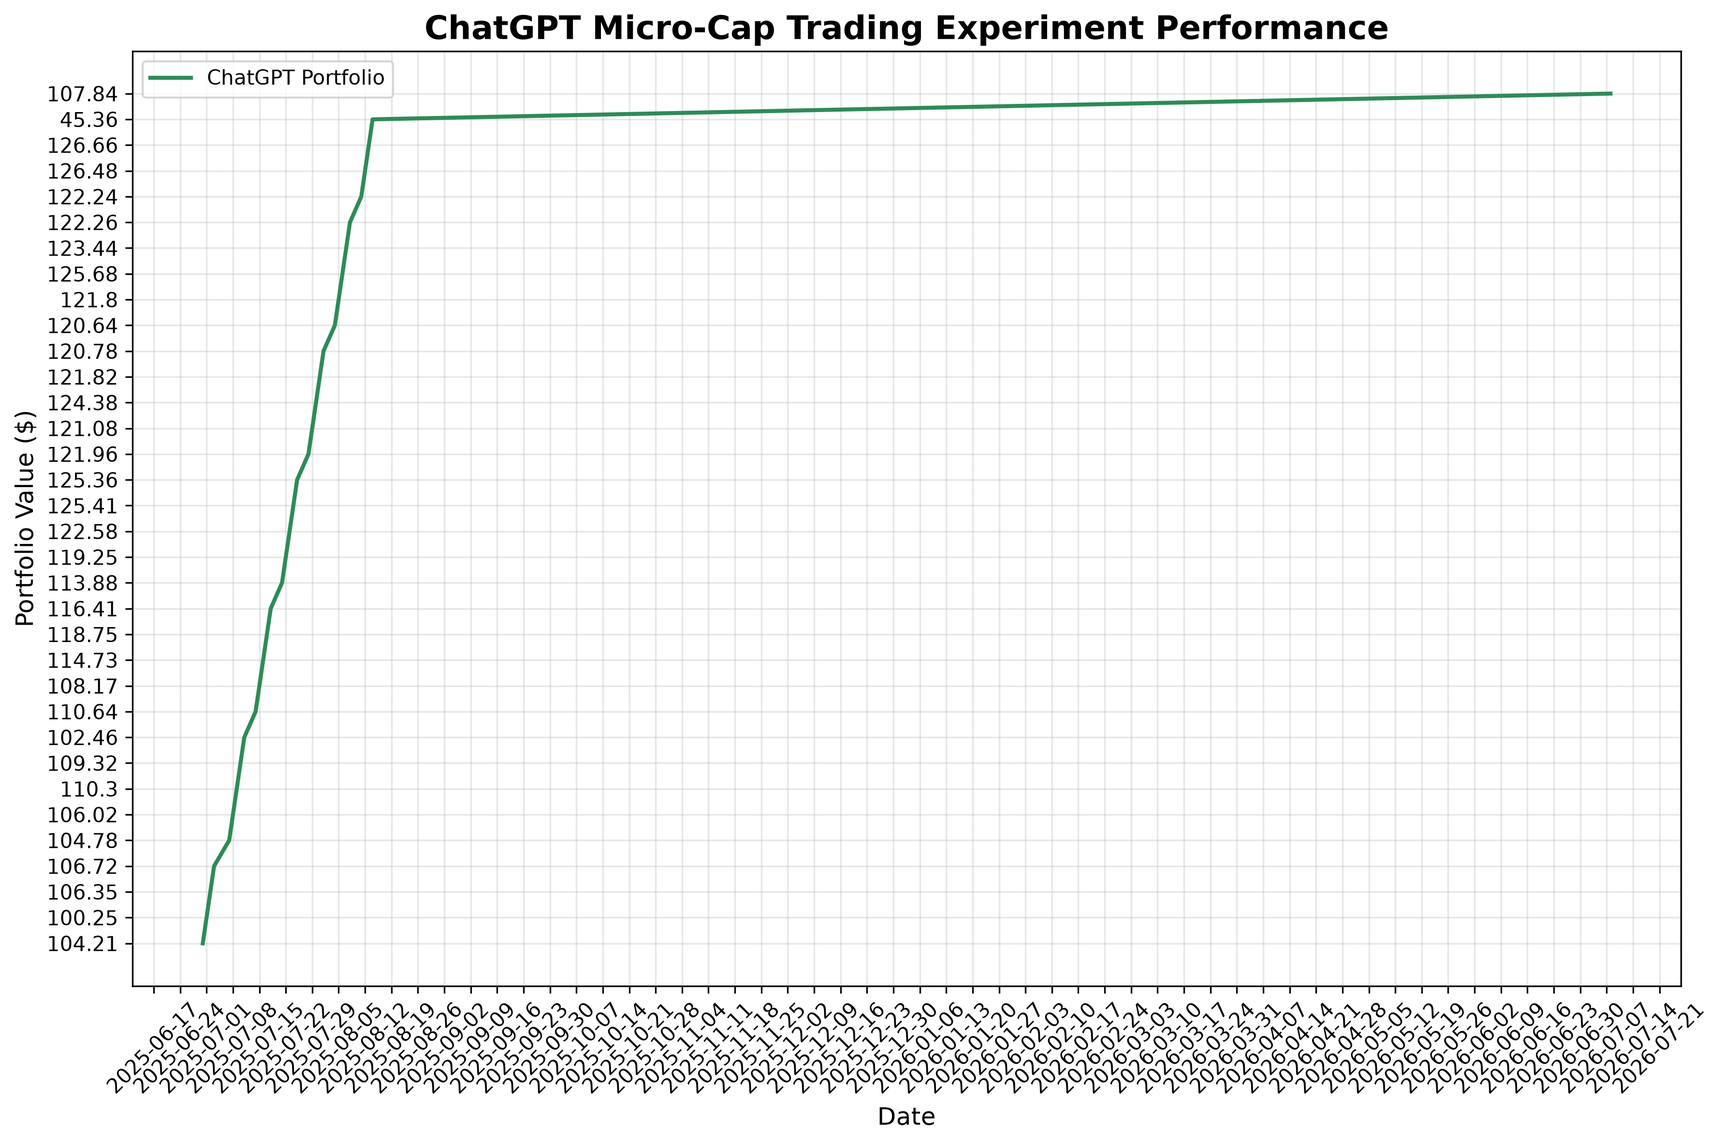
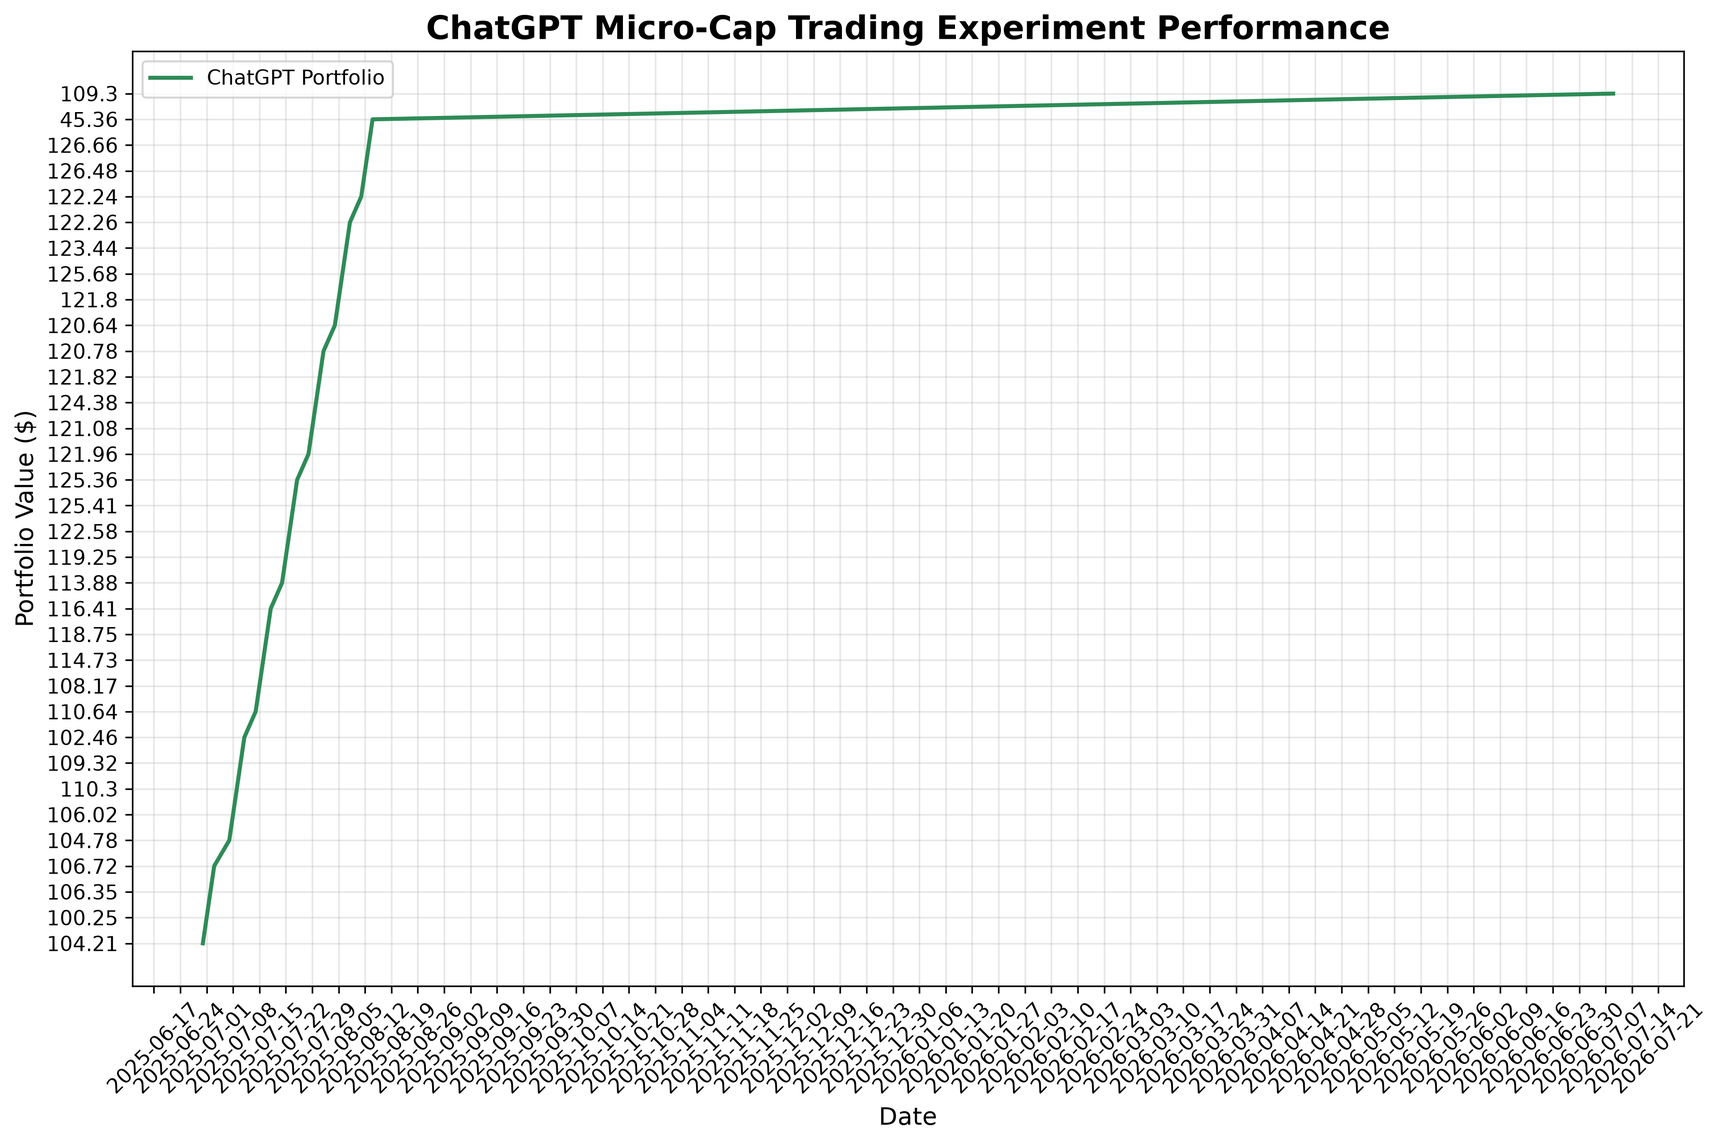
deploy: e15cad030d70fb3fbb51f9df6e22fa70c2f175c0

diff --git a/index.html b/index.html
@@ -105,7 +105,7 @@
                 <div class="stat-label">Total Trades</div>
             </div>
             <div class="stat-card">
-                <div class="stat-value" id="last-updated">2026-07-08</div>
+                <div class="stat-value" id="last-updated">2026-07-09</div>
                 <div class="stat-label">Last Updated</div>
             </div>
         </div>
@@ -160,8 +160,8 @@
     
     <script>
         // Portfolio data
-        const portfolioData = JSON.parse("[{&quot;Date&quot;: &quot;2025-08-11&quot;, &quot;Ticker&quot;: &quot;ABEO&quot;, &quot;Shares&quot;: 4.0, &quot;Buy Price&quot;: 5.77, &quot;Cost Basis&quot;: 23.08, &quot;Stop Loss&quot;: 4.9, &quot;Current Price&quot;: 6.28, &quot;Total Value&quot;: 25.12, &quot;PnL&quot;: 2.04, &quot;Action&quot;: &quot;HOLD&quot;, &quot;Cash Balance&quot;: NaN, &quot;Total Equity&quot;: NaN}, {&quot;Date&quot;: &quot;2025-08-11&quot;, &quot;Ticker&quot;: &quot;ACTU&quot;, &quot;Shares&quot;: 6.0, &quot;Buy Price&quot;: 5.75, &quot;Cost Basis&quot;: 34.5, &quot;Stop Loss&quot;: 4.89, &quot;Current Price&quot;: 8.01, &quot;Total Value&quot;: 48.06, &quot;PnL&quot;: 13.56, &quot;Action&quot;: &quot;HOLD&quot;, &quot;Cash Balance&quot;: NaN, &quot;Total Equity&quot;: NaN}, {&quot;Date&quot;: &quot;2025-08-11&quot;, &quot;Ticker&quot;: &quot;ESPR&quot;, &quot;Shares&quot;: 2.0, &quot;Buy Price&quot;: 1.91, &quot;Cost Basis&quot;: 3.82, &quot;Stop Loss&quot;: 1.6, &quot;Current Price&quot;: 1.85, &quot;Total Value&quot;: 3.7, &quot;PnL&quot;: -0.12, &quot;Action&quot;: &quot;HOLD&quot;, &quot;Cash Balance&quot;: NaN, &quot;Total Equity&quot;: NaN}, {&quot;Date&quot;: &quot;2025-08-11&quot;, &quot;Ticker&quot;: &quot;TOTAL&quot;, &quot;Shares&quot;: NaN, &quot;Buy Price&quot;: NaN, &quot;Cost Basis&quot;: NaN, &quot;Stop Loss&quot;: NaN, &quot;Current Price&quot;: NaN, &quot;Total Value&quot;: 76.88, &quot;PnL&quot;: 15.48, &quot;Action&quot;: NaN, &quot;Cash Balance&quot;: 45.36, &quot;Total Equity&quot;: &quot;122.24&quot;}, {&quot;Date&quot;: &quot;2025-08-12&quot;, &quot;Ticker&quot;: &quot;ABEO&quot;, &quot;Shares&quot;: 4.0, &quot;Buy Price&quot;: 5.77, &quot;Cost Basis&quot;: 23.08, &quot;Stop Loss&quot;: 4.9, &quot;Current Price&quot;: 6.38, &quot;Total Value&quot;: 25.52, &quot;PnL&quot;: 2.44, &quot;Action&quot;: &quot;HOLD&quot;, &quot;Cash Balance&quot;: NaN, &quot;Total Equity&quot;: NaN}, {&quot;Date&quot;: &quot;2025-08-12&quot;, &quot;Ticker&quot;: &quot;ACTU&quot;, &quot;Shares&quot;: 6.0, &quot;Buy Price&quot;: 5.75, &quot;Cost Basis&quot;: 34.5, &quot;Stop Loss&quot;: 4.89, &quot;Current Price&quot;: 8.67, &quot;Total Value&quot;: 52.02, &quot;PnL&quot;: 17.52, &quot;Action&quot;: &quot;HOLD&quot;, &quot;Cash Balance&quot;: NaN, &quot;Total Equity&quot;: NaN}, {&quot;Date&quot;: &quot;2025-08-12&quot;, &quot;Ticker&quot;: &quot;ESPR&quot;, &quot;Shares&quot;: 2.0, &quot;Buy Price&quot;: 1.91, &quot;Cost Basis&quot;: 3.82, &quot;Stop Loss&quot;: 1.6, &quot;Current Price&quot;: 1.79, &quot;Total Value&quot;: 3.58, &quot;PnL&quot;: -0.24, &quot;Action&quot;: &quot;HOLD&quot;, &quot;Cash Balance&quot;: NaN, &quot;Total Equity&quot;: NaN}, {&quot;Date&quot;: &quot;2025-08-12&quot;, &quot;Ticker&quot;: &quot;TOTAL&quot;, &quot;Shares&quot;: NaN, &quot;Buy Price&quot;: NaN, &quot;Cost Basis&quot;: NaN, &quot;Stop Loss&quot;: NaN, &quot;Current Price&quot;: NaN, &quot;Total Value&quot;: 81.12, &quot;PnL&quot;: 19.72, &quot;Action&quot;: NaN, &quot;Cash Balance&quot;: 45.36, &quot;Total Equity&quot;: &quot;126.48&quot;}, {&quot;Date&quot;: &quot;2025-08-13&quot;, &quot;Ticker&quot;: &quot;ABEO&quot;, &quot;Shares&quot;: 4.0, &quot;Buy Price&quot;: 5.77, &quot;Cost Basis&quot;: 23.08, &quot;Stop Loss&quot;: 4.9, &quot;Current Price&quot;: 6.56, &quot;Total Value&quot;: 26.24, &quot;PnL&quot;: 3.16, &quot;Action&quot;: &quot;HOLD&quot;, &quot;Cash Balance&quot;: NaN, &quot;Total Equity&quot;: NaN}, {&quot;Date&quot;: &quot;2025-08-13&quot;, &quot;Ticker&quot;: &quot;ACTU&quot;, &quot;Shares&quot;: 6.0, &quot;Buy Price&quot;: 5.75, &quot;Cost Basis&quot;: 34.5, &quot;Stop Loss&quot;: 4.89, &quot;Current Price&quot;: 8.53, &quot;Total Value&quot;: 51.18, &quot;PnL&quot;: 16.68, &quot;Action&quot;: &quot;HOLD&quot;, &quot;Cash Balance&quot;: NaN, &quot;Total Equity&quot;: NaN}, {&quot;Date&quot;: &quot;2025-08-13&quot;, &quot;Ticker&quot;: &quot;ESPR&quot;, &quot;Shares&quot;: 2.0, &quot;Buy Price&quot;: 1.91, &quot;Cost Basis&quot;: 3.82, &quot;Stop Loss&quot;: 1.6, &quot;Current Price&quot;: 1.94, &quot;Total Value&quot;: 3.88, &quot;PnL&quot;: 0.06, &quot;Action&quot;: &quot;HOLD&quot;, &quot;Cash Balance&quot;: NaN, &quot;Total Equity&quot;: NaN}, {&quot;Date&quot;: &quot;2025-08-13&quot;, &quot;Ticker&quot;: &quot;TOTAL&quot;, &quot;Shares&quot;: NaN, &quot;Buy Price&quot;: NaN, &quot;Cost Basis&quot;: NaN, &quot;Stop Loss&quot;: NaN, &quot;Current Price&quot;: NaN, &quot;Total Value&quot;: 81.3, &quot;PnL&quot;: 19.9, &quot;Action&quot;: NaN, &quot;Cash Balance&quot;: 45.36, &quot;Total Equity&quot;: &quot;126.66&quot;}, {&quot;Date&quot;: &quot;2025-08-14&quot;, &quot;Ticker&quot;: &quot;ABEO&quot;, &quot;Shares&quot;: 4.0, &quot;Buy Price&quot;: 5.77, &quot;Cost Basis&quot;: 23.08, &quot;Stop Loss&quot;: 4.9, &quot;Current Price&quot;: NaN, &quot;Total Value&quot;: NaN, &quot;PnL&quot;: NaN, &quot;Action&quot;: &quot;NO DATA&quot;, &quot;Cash Balance&quot;: NaN, &quot;Total Equity&quot;: NaN}, {&quot;Date&quot;: &quot;2025-08-14&quot;, &quot;Ticker&quot;: &quot;ACTU&quot;, &quot;Shares&quot;: 6.0, &quot;Buy Price&quot;: 5.75, &quot;Cost Basis&quot;: 34.5, &quot;Stop Loss&quot;: 4.89, &quot;Current Price&quot;: NaN, &quot;Total Value&quot;: NaN, &quot;PnL&quot;: NaN, &quot;Action&quot;: &quot;NO DATA&quot;, &quot;Cash Balance&quot;: NaN, &quot;Total Equity&quot;: NaN}, {&quot;Date&quot;: &quot;2025-08-14&quot;, &quot;Ticker&quot;: &quot;ESPR&quot;, &quot;Shares&quot;: 2.0, &quot;Buy Price&quot;: 1.91, &quot;Cost Basis&quot;: 3.82, &quot;Stop Loss&quot;: 1.6, &quot;Current Price&quot;: NaN, &quot;Total Value&quot;: NaN, &quot;PnL&quot;: NaN, &quot;Action&quot;: &quot;NO DATA&quot;, &quot;Cash Balance&quot;: NaN, &quot;Total Equity&quot;: NaN}, {&quot;Date&quot;: &quot;2025-08-14&quot;, &quot;Ticker&quot;: &quot;TOTAL&quot;, &quot;Shares&quot;: NaN, &quot;Buy Price&quot;: NaN, &quot;Cost Basis&quot;: NaN, &quot;Stop Loss&quot;: NaN, &quot;Current Price&quot;: NaN, &quot;Total Value&quot;: 0.0, &quot;PnL&quot;: 0.0, &quot;Action&quot;: NaN, &quot;Cash Balance&quot;: 45.36, &quot;Total Equity&quot;: &quot;45.36&quot;}, {&quot;Date&quot;: &quot;2026-07-08&quot;, &quot;Ticker&quot;: &quot;ABEO&quot;, &quot;Shares&quot;: 4.0, &quot;Buy Price&quot;: 5.77, &quot;Cost Basis&quot;: 23.08, &quot;Stop Loss&quot;: 4.9, &quot;Current Price&quot;: 6.7, &quot;Total Value&quot;: 26.8, &quot;PnL&quot;: 3.72, &quot;Action&quot;: &quot;HOLD&quot;, &quot;Cash Balance&quot;: NaN, &quot;Total Equity&quot;: NaN}, {&quot;Date&quot;: &quot;2026-07-08&quot;, &quot;Ticker&quot;: &quot;ACTU&quot;, &quot;Shares&quot;: 6.0, &quot;Buy Price&quot;: 5.75, &quot;Cost Basis&quot;: 34.5, &quot;Stop Loss&quot;: 4.89, &quot;Current Price&quot;: 4.89, &quot;Total Value&quot;: 29.34, &quot;PnL&quot;: -5.16, &quot;Action&quot;: &quot;SELL - Stop Loss Triggered&quot;, &quot;Cash Balance&quot;: NaN, &quot;Total Equity&quot;: NaN}, {&quot;Date&quot;: &quot;2026-07-08&quot;, &quot;Ticker&quot;: &quot;ESPR&quot;, &quot;Shares&quot;: 2.0, &quot;Buy Price&quot;: 1.91, &quot;Cost Basis&quot;: 3.82, &quot;Stop Loss&quot;: 1.6, &quot;Current Price&quot;: 3.17, &quot;Total Value&quot;: 6.34, &quot;PnL&quot;: 2.52, &quot;Action&quot;: &quot;HOLD&quot;, &quot;Cash Balance&quot;: NaN, &quot;Total Equity&quot;: NaN}, {&quot;Date&quot;: &quot;2026-07-08&quot;, &quot;Ticker&quot;: &quot;TOTAL&quot;, &quot;Shares&quot;: NaN, &quot;Buy Price&quot;: NaN, &quot;Cost Basis&quot;: NaN, &quot;Stop Loss&quot;: NaN, &quot;Current Price&quot;: NaN, &quot;Total Value&quot;: 33.14, &quot;PnL&quot;: 6.24, &quot;Action&quot;: NaN, &quot;Cash Balance&quot;: 74.7, &quot;Total Equity&quot;: &quot;107.84&quot;}]");
-        const tradeData = JSON.parse("[{&quot;Date&quot;: &quot;2025-07-08&quot;, &quot;Ticker&quot;: &quot;IINN&quot;, &quot;Shares Bought&quot;: 20.0, &quot;Buy Price&quot;: 1.5, &quot;Cost Basis&quot;: 30.0, &quot;PnL&quot;: 0.0, &quot;Reason&quot;: &quot;MANUAL BUY - New position&quot;, &quot;Shares Sold&quot;: NaN, &quot;Sell Price&quot;: NaN}, {&quot;Date&quot;: &quot;2025-07-21&quot;, &quot;Ticker&quot;: &quot;CADL&quot;, &quot;Shares Bought&quot;: NaN, &quot;Buy Price&quot;: NaN, &quot;Cost Basis&quot;: 25.2, &quot;PnL&quot;: 8.5, &quot;Reason&quot;: &quot;MANUAL SELL - GAIN CAPITAL FOR ACTU&quot;, &quot;Shares Sold&quot;: 5.0, &quot;Sell Price&quot;: 6.59}, {&quot;Date&quot;: &quot;2025-07-21&quot;, &quot;Ticker&quot;: &quot;ACTU&quot;, &quot;Shares Bought&quot;: 6.0, &quot;Buy Price&quot;: 5.75, &quot;Cost Basis&quot;: 34.5, &quot;PnL&quot;: 0.0, &quot;Reason&quot;: &quot;MANUAL BUY - New position&quot;, &quot;Shares Sold&quot;: NaN, &quot;Sell Price&quot;: NaN}, {&quot;Date&quot;: &quot;2025-07-28&quot;, &quot;Ticker&quot;: &quot;IINN&quot;, &quot;Shares Bought&quot;: NaN, &quot;Buy Price&quot;: NaN, &quot;Cost Basis&quot;: 9.0, &quot;PnL&quot;: -0.5400000000000009, &quot;Reason&quot;: &quot;MANUAL SELL - POSITION REDUCTION&quot;, &quot;Shares Sold&quot;: 6.0, &quot;Sell Price&quot;: 1.41}, {&quot;Date&quot;: &quot;2025-07-29&quot;, &quot;Ticker&quot;: &quot;AZTR&quot;, &quot;Shares Bought&quot;: NaN, &quot;Buy Price&quot;: NaN, &quot;Cost Basis&quot;: 13.75, &quot;PnL&quot;: -2.75, &quot;Reason&quot;: &quot;MANUAL SELL - DILUTION RISK&quot;, &quot;Shares Sold&quot;: 55.0, &quot;Sell Price&quot;: 0.2}, {&quot;Date&quot;: &quot;2025-08-01&quot;, &quot;Ticker&quot;: &quot;IINN&quot;, &quot;Shares Bought&quot;: 2.0, &quot;Buy Price&quot;: 1.74, &quot;Cost Basis&quot;: 3.48, &quot;PnL&quot;: 0.0, &quot;Reason&quot;: &quot;MANUAL BUY - New position&quot;, &quot;Shares Sold&quot;: NaN, &quot;Sell Price&quot;: NaN}, {&quot;Date&quot;: &quot;2025-08-01&quot;, &quot;Ticker&quot;: &quot;ABEO&quot;, &quot;Shares Bought&quot;: NaN, &quot;Buy Price&quot;: NaN, &quot;Cost Basis&quot;: 11.54, &quot;PnL&quot;: 1.200000000000001, &quot;Reason&quot;: &quot;MANUAL SELL - TRIM AFTER SUPPORT LOSS&quot;, &quot;Shares Sold&quot;: 2.0, &quot;Sell Price&quot;: 6.37}, {&quot;Date&quot;: &quot;2025-08-07&quot;, &quot;Ticker&quot;: &quot;ESPR&quot;, &quot;Shares Bought&quot;: 2.0, &quot;Buy Price&quot;: 1.91, &quot;Cost Basis&quot;: 3.82, &quot;PnL&quot;: 0.0, &quot;Reason&quot;: &quot;MANUAL BUY - New position&quot;, &quot;Shares Sold&quot;: NaN, &quot;Sell Price&quot;: NaN}, {&quot;Date&quot;: &quot;2025-08-08&quot;, &quot;Ticker&quot;: &quot;IINN&quot;, &quot;Shares Bought&quot;: NaN, &quot;Buy Price&quot;: NaN, &quot;Cost Basis&quot;: 1.5, &quot;PnL&quot;: -6.4, &quot;Reason&quot;: &quot;AUTOMATED SELL - STOPLOSS TRIGGERED&quot;, &quot;Shares Sold&quot;: 16.0, &quot;Sell Price&quot;: 1.1}, {&quot;Date&quot;: &quot;2026-07-08&quot;, &quot;Ticker&quot;: &quot;ACTU&quot;, &quot;Shares Bought&quot;: NaN, &quot;Buy Price&quot;: NaN, &quot;Cost Basis&quot;: 5.75, &quot;PnL&quot;: -5.16, &quot;Reason&quot;: &quot;AUTOMATED SELL - STOPLOSS TRIGGERED&quot;, &quot;Shares Sold&quot;: 6.0, &quot;Sell Price&quot;: 4.89}]");
+        const portfolioData = JSON.parse("[{&quot;Date&quot;: &quot;2025-08-11&quot;, &quot;Ticker&quot;: &quot;ABEO&quot;, &quot;Shares&quot;: 4.0, &quot;Buy Price&quot;: 5.77, &quot;Cost Basis&quot;: 23.08, &quot;Stop Loss&quot;: 4.9, &quot;Current Price&quot;: 6.28, &quot;Total Value&quot;: 25.12, &quot;PnL&quot;: 2.04, &quot;Action&quot;: &quot;HOLD&quot;, &quot;Cash Balance&quot;: NaN, &quot;Total Equity&quot;: NaN}, {&quot;Date&quot;: &quot;2025-08-11&quot;, &quot;Ticker&quot;: &quot;ACTU&quot;, &quot;Shares&quot;: 6.0, &quot;Buy Price&quot;: 5.75, &quot;Cost Basis&quot;: 34.5, &quot;Stop Loss&quot;: 4.89, &quot;Current Price&quot;: 8.01, &quot;Total Value&quot;: 48.06, &quot;PnL&quot;: 13.56, &quot;Action&quot;: &quot;HOLD&quot;, &quot;Cash Balance&quot;: NaN, &quot;Total Equity&quot;: NaN}, {&quot;Date&quot;: &quot;2025-08-11&quot;, &quot;Ticker&quot;: &quot;ESPR&quot;, &quot;Shares&quot;: 2.0, &quot;Buy Price&quot;: 1.91, &quot;Cost Basis&quot;: 3.82, &quot;Stop Loss&quot;: 1.6, &quot;Current Price&quot;: 1.85, &quot;Total Value&quot;: 3.7, &quot;PnL&quot;: -0.12, &quot;Action&quot;: &quot;HOLD&quot;, &quot;Cash Balance&quot;: NaN, &quot;Total Equity&quot;: NaN}, {&quot;Date&quot;: &quot;2025-08-11&quot;, &quot;Ticker&quot;: &quot;TOTAL&quot;, &quot;Shares&quot;: NaN, &quot;Buy Price&quot;: NaN, &quot;Cost Basis&quot;: NaN, &quot;Stop Loss&quot;: NaN, &quot;Current Price&quot;: NaN, &quot;Total Value&quot;: 76.88, &quot;PnL&quot;: 15.48, &quot;Action&quot;: NaN, &quot;Cash Balance&quot;: 45.36, &quot;Total Equity&quot;: &quot;122.24&quot;}, {&quot;Date&quot;: &quot;2025-08-12&quot;, &quot;Ticker&quot;: &quot;ABEO&quot;, &quot;Shares&quot;: 4.0, &quot;Buy Price&quot;: 5.77, &quot;Cost Basis&quot;: 23.08, &quot;Stop Loss&quot;: 4.9, &quot;Current Price&quot;: 6.38, &quot;Total Value&quot;: 25.52, &quot;PnL&quot;: 2.44, &quot;Action&quot;: &quot;HOLD&quot;, &quot;Cash Balance&quot;: NaN, &quot;Total Equity&quot;: NaN}, {&quot;Date&quot;: &quot;2025-08-12&quot;, &quot;Ticker&quot;: &quot;ACTU&quot;, &quot;Shares&quot;: 6.0, &quot;Buy Price&quot;: 5.75, &quot;Cost Basis&quot;: 34.5, &quot;Stop Loss&quot;: 4.89, &quot;Current Price&quot;: 8.67, &quot;Total Value&quot;: 52.02, &quot;PnL&quot;: 17.52, &quot;Action&quot;: &quot;HOLD&quot;, &quot;Cash Balance&quot;: NaN, &quot;Total Equity&quot;: NaN}, {&quot;Date&quot;: &quot;2025-08-12&quot;, &quot;Ticker&quot;: &quot;ESPR&quot;, &quot;Shares&quot;: 2.0, &quot;Buy Price&quot;: 1.91, &quot;Cost Basis&quot;: 3.82, &quot;Stop Loss&quot;: 1.6, &quot;Current Price&quot;: 1.79, &quot;Total Value&quot;: 3.58, &quot;PnL&quot;: -0.24, &quot;Action&quot;: &quot;HOLD&quot;, &quot;Cash Balance&quot;: NaN, &quot;Total Equity&quot;: NaN}, {&quot;Date&quot;: &quot;2025-08-12&quot;, &quot;Ticker&quot;: &quot;TOTAL&quot;, &quot;Shares&quot;: NaN, &quot;Buy Price&quot;: NaN, &quot;Cost Basis&quot;: NaN, &quot;Stop Loss&quot;: NaN, &quot;Current Price&quot;: NaN, &quot;Total Value&quot;: 81.12, &quot;PnL&quot;: 19.72, &quot;Action&quot;: NaN, &quot;Cash Balance&quot;: 45.36, &quot;Total Equity&quot;: &quot;126.48&quot;}, {&quot;Date&quot;: &quot;2025-08-13&quot;, &quot;Ticker&quot;: &quot;ABEO&quot;, &quot;Shares&quot;: 4.0, &quot;Buy Price&quot;: 5.77, &quot;Cost Basis&quot;: 23.08, &quot;Stop Loss&quot;: 4.9, &quot;Current Price&quot;: 6.56, &quot;Total Value&quot;: 26.24, &quot;PnL&quot;: 3.16, &quot;Action&quot;: &quot;HOLD&quot;, &quot;Cash Balance&quot;: NaN, &quot;Total Equity&quot;: NaN}, {&quot;Date&quot;: &quot;2025-08-13&quot;, &quot;Ticker&quot;: &quot;ACTU&quot;, &quot;Shares&quot;: 6.0, &quot;Buy Price&quot;: 5.75, &quot;Cost Basis&quot;: 34.5, &quot;Stop Loss&quot;: 4.89, &quot;Current Price&quot;: 8.53, &quot;Total Value&quot;: 51.18, &quot;PnL&quot;: 16.68, &quot;Action&quot;: &quot;HOLD&quot;, &quot;Cash Balance&quot;: NaN, &quot;Total Equity&quot;: NaN}, {&quot;Date&quot;: &quot;2025-08-13&quot;, &quot;Ticker&quot;: &quot;ESPR&quot;, &quot;Shares&quot;: 2.0, &quot;Buy Price&quot;: 1.91, &quot;Cost Basis&quot;: 3.82, &quot;Stop Loss&quot;: 1.6, &quot;Current Price&quot;: 1.94, &quot;Total Value&quot;: 3.88, &quot;PnL&quot;: 0.06, &quot;Action&quot;: &quot;HOLD&quot;, &quot;Cash Balance&quot;: NaN, &quot;Total Equity&quot;: NaN}, {&quot;Date&quot;: &quot;2025-08-13&quot;, &quot;Ticker&quot;: &quot;TOTAL&quot;, &quot;Shares&quot;: NaN, &quot;Buy Price&quot;: NaN, &quot;Cost Basis&quot;: NaN, &quot;Stop Loss&quot;: NaN, &quot;Current Price&quot;: NaN, &quot;Total Value&quot;: 81.3, &quot;PnL&quot;: 19.9, &quot;Action&quot;: NaN, &quot;Cash Balance&quot;: 45.36, &quot;Total Equity&quot;: &quot;126.66&quot;}, {&quot;Date&quot;: &quot;2025-08-14&quot;, &quot;Ticker&quot;: &quot;ABEO&quot;, &quot;Shares&quot;: 4.0, &quot;Buy Price&quot;: 5.77, &quot;Cost Basis&quot;: 23.08, &quot;Stop Loss&quot;: 4.9, &quot;Current Price&quot;: NaN, &quot;Total Value&quot;: NaN, &quot;PnL&quot;: NaN, &quot;Action&quot;: &quot;NO DATA&quot;, &quot;Cash Balance&quot;: NaN, &quot;Total Equity&quot;: NaN}, {&quot;Date&quot;: &quot;2025-08-14&quot;, &quot;Ticker&quot;: &quot;ACTU&quot;, &quot;Shares&quot;: 6.0, &quot;Buy Price&quot;: 5.75, &quot;Cost Basis&quot;: 34.5, &quot;Stop Loss&quot;: 4.89, &quot;Current Price&quot;: NaN, &quot;Total Value&quot;: NaN, &quot;PnL&quot;: NaN, &quot;Action&quot;: &quot;NO DATA&quot;, &quot;Cash Balance&quot;: NaN, &quot;Total Equity&quot;: NaN}, {&quot;Date&quot;: &quot;2025-08-14&quot;, &quot;Ticker&quot;: &quot;ESPR&quot;, &quot;Shares&quot;: 2.0, &quot;Buy Price&quot;: 1.91, &quot;Cost Basis&quot;: 3.82, &quot;Stop Loss&quot;: 1.6, &quot;Current Price&quot;: NaN, &quot;Total Value&quot;: NaN, &quot;PnL&quot;: NaN, &quot;Action&quot;: &quot;NO DATA&quot;, &quot;Cash Balance&quot;: NaN, &quot;Total Equity&quot;: NaN}, {&quot;Date&quot;: &quot;2025-08-14&quot;, &quot;Ticker&quot;: &quot;TOTAL&quot;, &quot;Shares&quot;: NaN, &quot;Buy Price&quot;: NaN, &quot;Cost Basis&quot;: NaN, &quot;Stop Loss&quot;: NaN, &quot;Current Price&quot;: NaN, &quot;Total Value&quot;: 0.0, &quot;PnL&quot;: 0.0, &quot;Action&quot;: NaN, &quot;Cash Balance&quot;: 45.36, &quot;Total Equity&quot;: &quot;45.36&quot;}, {&quot;Date&quot;: &quot;2026-07-09&quot;, &quot;Ticker&quot;: &quot;ABEO&quot;, &quot;Shares&quot;: 4.0, &quot;Buy Price&quot;: 5.77, &quot;Cost Basis&quot;: 23.08, &quot;Stop Loss&quot;: 4.9, &quot;Current Price&quot;: 7.06, &quot;Total Value&quot;: 28.24, &quot;PnL&quot;: 5.16, &quot;Action&quot;: &quot;HOLD&quot;, &quot;Cash Balance&quot;: NaN, &quot;Total Equity&quot;: NaN}, {&quot;Date&quot;: &quot;2026-07-09&quot;, &quot;Ticker&quot;: &quot;ACTU&quot;, &quot;Shares&quot;: 6.0, &quot;Buy Price&quot;: 5.75, &quot;Cost Basis&quot;: 34.5, &quot;Stop Loss&quot;: 4.89, &quot;Current Price&quot;: 4.89, &quot;Total Value&quot;: 29.34, &quot;PnL&quot;: -5.16, &quot;Action&quot;: &quot;SELL - Stop Loss Triggered&quot;, &quot;Cash Balance&quot;: NaN, &quot;Total Equity&quot;: NaN}, {&quot;Date&quot;: &quot;2026-07-09&quot;, &quot;Ticker&quot;: &quot;ESPR&quot;, &quot;Shares&quot;: 2.0, &quot;Buy Price&quot;: 1.91, &quot;Cost Basis&quot;: 3.82, &quot;Stop Loss&quot;: 1.6, &quot;Current Price&quot;: 3.18, &quot;Total Value&quot;: 6.36, &quot;PnL&quot;: 2.54, &quot;Action&quot;: &quot;HOLD&quot;, &quot;Cash Balance&quot;: NaN, &quot;Total Equity&quot;: NaN}, {&quot;Date&quot;: &quot;2026-07-09&quot;, &quot;Ticker&quot;: &quot;TOTAL&quot;, &quot;Shares&quot;: NaN, &quot;Buy Price&quot;: NaN, &quot;Cost Basis&quot;: NaN, &quot;Stop Loss&quot;: NaN, &quot;Current Price&quot;: NaN, &quot;Total Value&quot;: 34.6, &quot;PnL&quot;: 7.7, &quot;Action&quot;: NaN, &quot;Cash Balance&quot;: 74.7, &quot;Total Equity&quot;: &quot;109.3&quot;}]");
+        const tradeData = JSON.parse("[{&quot;Date&quot;: &quot;2025-07-08&quot;, &quot;Ticker&quot;: &quot;IINN&quot;, &quot;Shares Bought&quot;: 20.0, &quot;Buy Price&quot;: 1.5, &quot;Cost Basis&quot;: 30.0, &quot;PnL&quot;: 0.0, &quot;Reason&quot;: &quot;MANUAL BUY - New position&quot;, &quot;Shares Sold&quot;: NaN, &quot;Sell Price&quot;: NaN}, {&quot;Date&quot;: &quot;2025-07-21&quot;, &quot;Ticker&quot;: &quot;CADL&quot;, &quot;Shares Bought&quot;: NaN, &quot;Buy Price&quot;: NaN, &quot;Cost Basis&quot;: 25.2, &quot;PnL&quot;: 8.5, &quot;Reason&quot;: &quot;MANUAL SELL - GAIN CAPITAL FOR ACTU&quot;, &quot;Shares Sold&quot;: 5.0, &quot;Sell Price&quot;: 6.59}, {&quot;Date&quot;: &quot;2025-07-21&quot;, &quot;Ticker&quot;: &quot;ACTU&quot;, &quot;Shares Bought&quot;: 6.0, &quot;Buy Price&quot;: 5.75, &quot;Cost Basis&quot;: 34.5, &quot;PnL&quot;: 0.0, &quot;Reason&quot;: &quot;MANUAL BUY - New position&quot;, &quot;Shares Sold&quot;: NaN, &quot;Sell Price&quot;: NaN}, {&quot;Date&quot;: &quot;2025-07-28&quot;, &quot;Ticker&quot;: &quot;IINN&quot;, &quot;Shares Bought&quot;: NaN, &quot;Buy Price&quot;: NaN, &quot;Cost Basis&quot;: 9.0, &quot;PnL&quot;: -0.5400000000000009, &quot;Reason&quot;: &quot;MANUAL SELL - POSITION REDUCTION&quot;, &quot;Shares Sold&quot;: 6.0, &quot;Sell Price&quot;: 1.41}, {&quot;Date&quot;: &quot;2025-07-29&quot;, &quot;Ticker&quot;: &quot;AZTR&quot;, &quot;Shares Bought&quot;: NaN, &quot;Buy Price&quot;: NaN, &quot;Cost Basis&quot;: 13.75, &quot;PnL&quot;: -2.75, &quot;Reason&quot;: &quot;MANUAL SELL - DILUTION RISK&quot;, &quot;Shares Sold&quot;: 55.0, &quot;Sell Price&quot;: 0.2}, {&quot;Date&quot;: &quot;2025-08-01&quot;, &quot;Ticker&quot;: &quot;IINN&quot;, &quot;Shares Bought&quot;: 2.0, &quot;Buy Price&quot;: 1.74, &quot;Cost Basis&quot;: 3.48, &quot;PnL&quot;: 0.0, &quot;Reason&quot;: &quot;MANUAL BUY - New position&quot;, &quot;Shares Sold&quot;: NaN, &quot;Sell Price&quot;: NaN}, {&quot;Date&quot;: &quot;2025-08-01&quot;, &quot;Ticker&quot;: &quot;ABEO&quot;, &quot;Shares Bought&quot;: NaN, &quot;Buy Price&quot;: NaN, &quot;Cost Basis&quot;: 11.54, &quot;PnL&quot;: 1.200000000000001, &quot;Reason&quot;: &quot;MANUAL SELL - TRIM AFTER SUPPORT LOSS&quot;, &quot;Shares Sold&quot;: 2.0, &quot;Sell Price&quot;: 6.37}, {&quot;Date&quot;: &quot;2025-08-07&quot;, &quot;Ticker&quot;: &quot;ESPR&quot;, &quot;Shares Bought&quot;: 2.0, &quot;Buy Price&quot;: 1.91, &quot;Cost Basis&quot;: 3.82, &quot;PnL&quot;: 0.0, &quot;Reason&quot;: &quot;MANUAL BUY - New position&quot;, &quot;Shares Sold&quot;: NaN, &quot;Sell Price&quot;: NaN}, {&quot;Date&quot;: &quot;2025-08-08&quot;, &quot;Ticker&quot;: &quot;IINN&quot;, &quot;Shares Bought&quot;: NaN, &quot;Buy Price&quot;: NaN, &quot;Cost Basis&quot;: 1.5, &quot;PnL&quot;: -6.4, &quot;Reason&quot;: &quot;AUTOMATED SELL - STOPLOSS TRIGGERED&quot;, &quot;Shares Sold&quot;: 16.0, &quot;Sell Price&quot;: 1.1}, {&quot;Date&quot;: &quot;2026-07-09&quot;, &quot;Ticker&quot;: &quot;ACTU&quot;, &quot;Shares Bought&quot;: NaN, &quot;Buy Price&quot;: NaN, &quot;Cost Basis&quot;: 5.75, &quot;PnL&quot;: -5.16, &quot;Reason&quot;: &quot;AUTOMATED SELL - STOPLOSS TRIGGERED&quot;, &quot;Shares Sold&quot;: 6.0, &quot;Sell Price&quot;: 4.89}]");
         
         // Update total equity
         if (portfolioData.length > 0) {
